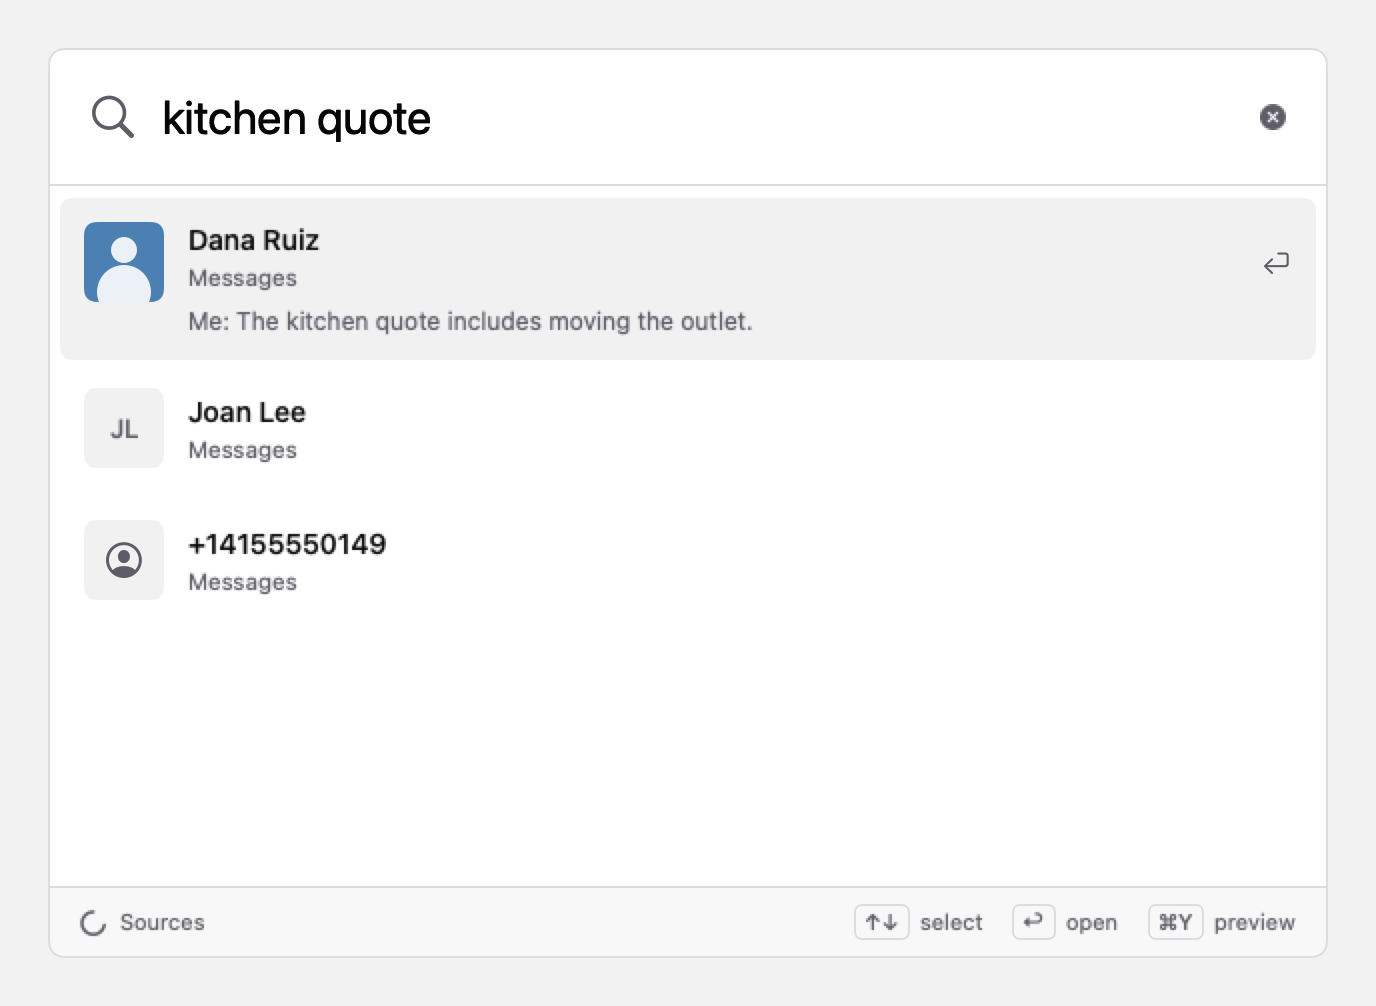
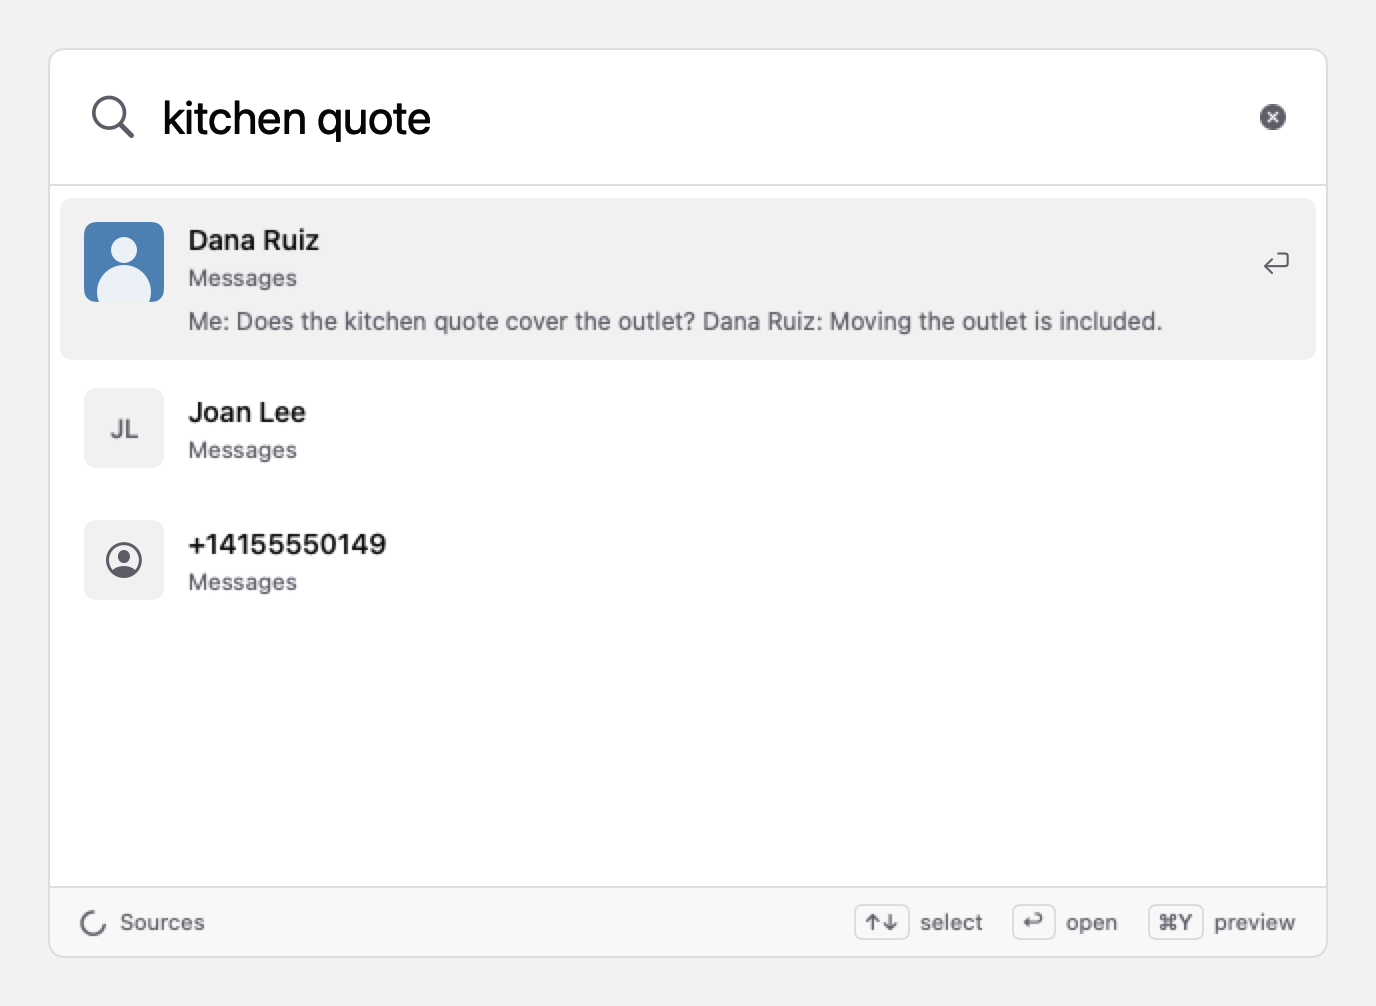
Show contact names in Messages search snippets

Changed region(s): [[0.1562, 0.3082, 0.8438, 0.339]]

diff --git a/mac/Packages/AppearsKit/Sources/AppearsContext/MessageContacts.swift b/mac/Packages/AppearsKit/Sources/AppearsContext/MessageContacts.swift
@@ -112,6 +112,78 @@ public struct MessageContacts: Sendable {
                             initials: initials, photo: person?.photo, isGroup: group)
     }
 
+    /// Resolve only the speaker at the start of each indexed conversation line.
+    /// Numbers and email addresses in the message itself stay verbatim.
+    public func displayText(_ text: String, for item: Item) -> String {
+        guard item.source == .messages, item.kind == .message else { return text }
+        var result = text
+        for replacement in speakers(in: text).reversed() {
+            result.replaceSubrange(replacement.range, with: replacement.name)
+        }
+        return result
+    }
+
+    /// Search excerpts have their newlines collapsed and may start midway through a
+    /// message. Locate the excerpt in its source so an inline number is never a sender.
+    public func displaySnippet(for suggestion: Suggestion) -> String {
+        let snippet = suggestion.snippet
+        guard suggestion.item.source == .messages, suggestion.item.kind == .message else { return snippet }
+        let source = suggestion.unit.text
+        guard !source.isEmpty else { return displayText(snippet, for: suggestion.item) }
+        func flat(_ text: String) -> String {
+            text.replacingOccurrences(of: "\\s+", with: " ", options: .regularExpression)
+        }
+        let flattened = flat(source)
+        var excerpt = snippet[...]
+        if excerpt.hasPrefix("…") { excerpt = excerpt.dropFirst() }
+        if excerpt.hasSuffix("…") { excerpt = excerpt.dropLast() }
+        guard !excerpt.isEmpty, let location = flattened.range(of: String(excerpt)) else { return snippet }
+        let offset = flattened.distance(from: flattened.startIndex, to: location.lowerBound)
+        let leading = snippet.hasPrefix("…") ? 1 : 0
+        var result = snippet
+        for replacement in speakers(in: source).reversed() {
+            let start = flat(String(source[..<replacement.range.lowerBound])).count - offset
+            let length = flat(String(source[replacement.range])).count
+            guard start >= 0, start + length <= excerpt.count else { continue }
+            let lower = snippet.index(snippet.startIndex, offsetBy: leading + start)
+            let upper = snippet.index(lower, offsetBy: length)
+            result.replaceSubrange(lower..<upper, with: replacement.name)
+        }
+        return result
+    }
+
+    /// Keep answer emphasis and concealed clipboard handling when a quoted line
+    /// includes a sender, even when its address spans several styled segments.
+    public func displayLine(_ line: MatchedLine, for item: Item) -> MatchedLine {
+        guard item.source == .messages, item.kind == .message else { return line }
+        let text = line.text
+        var result = line
+        for replacement in speakers(in: text).reversed() {
+            let start = text.distance(from: text.startIndex, to: replacement.range.lowerBound)
+            let end = text.distance(from: text.startIndex, to: replacement.range.upperBound)
+            var offset = 0
+            result.segments = result.segments.flatMap { segment -> [MatchedLine.Segment] in
+                let count = segment.text.count
+                defer { offset += count }
+                guard offset < end, offset + count > start else { return [segment] }
+                var parts: [MatchedLine.Segment] = []
+                if start > offset { parts.append(.init(String(segment.text.prefix(start - offset)), emphasized: segment.emphasized)) }
+                if start >= offset { parts.append(.init(replacement.name, emphasized: segment.emphasized)) }
+                if end < offset + count { parts.append(.init(String(segment.text.suffix(offset + count - end)), emphasized: segment.emphasized)) }
+                return parts
+            }
+        }
+        return result
+    }
+
+    private func speakers(in text: String) -> [(range: Range<String.Index>, name: String)] {
+        text.split(separator: "\n", omittingEmptySubsequences: false).compactMap { line in
+            guard let colon = line.firstIndex(of: ":"),
+                  let person = person(for: String(line[..<colon])) else { return nil }
+            return (line.startIndex..<colon, person.name)
+        }
+    }
+
     private func person(for address: String) -> Person? {
         let key = Self.key(address)
         return ambiguous.contains(key) ? nil : people[key]

diff --git a/mac/Packages/AppearsKit/Tests/AppearsContextTests/MessageContactsTests.swift b/mac/Packages/AppearsKit/Tests/AppearsContextTests/MessageContactsTests.swift
@@ -79,4 +79,61 @@ struct MessageContactsTests {
         file.source = .file
         #expect(directory.presentation(for: file) == nil)
     }
+
+    private func suggestion(text: String, snippet: String? = nil, item: Item? = nil) -> Suggestion {
+        Suggestion(item: item ?? self.item(), unit: Unit(kind: .text, locator: .whole, text: text),
+                   reason: "Related", snippet: snippet ?? text.replacingOccurrences(of: "\n", with: " "),
+                   score: 1, confidence: 0.8,
+                   features: Features(cosine: 0.8, zScore: 5, agreement: true, entityHit: true,
+                                      daysSinceTouched: 1, fused: 1, forgotten: 1, novelty: 1))
+    }
+
+    @Test func resolvesSpeakersInFlattenedSearchExcerptsAndMultilinePreviews() {
+        let directory = MessageContacts(people: [dana, joan])
+        let text = "Me: Where is the ladder?\n+14155550142: By the garage.\n+14155550143: Beside the shelves."
+        let original = suggestion(text: text)
+        #expect(directory.displaySnippet(for: original) == "Me: Where is the ladder? Dana Ruiz: By the garage. Joan Lee: Beside the shelves.")
+        #expect(directory.displayText(text, for: original.item) == "Me: Where is the ladder?\nDana Ruiz: By the garage.\nJoan Lee: Beside the shelves.")
+        #expect(original.unit.text == text)
+        #expect(original.snippet.contains("+14155550142"))
+    }
+
+    @Test func preservesBodyNumbersAndHandlesClippedUnicodeExcerpts() {
+        let directory = MessageContacts(people: [dana, joan])
+        let text = "Me: 🪜 Call +14155550142: ask about the ladder.\n+14155550142: It’s by the garage.\n+14155550143: Thanks!"
+        let clipped = suggestion(text: text, snippet: "…the ladder. +14155550142: It’s by the garage. +14155550143: Thanks…")
+        #expect(directory.displaySnippet(for: clipped) == "…the ladder. Dana Ruiz: It’s by the garage. Joan Lee: Thanks…")
+        let full = directory.displaySnippet(for: suggestion(text: text))
+        #expect(full.hasPrefix("Me: 🪜 Call +14155550142: ask about the ladder."))
+        #expect(directory.displayText(text, for: item()).hasPrefix("Me: 🪜 Call +14155550142: ask about the ladder."))
+        let partialSpeaker = suggestion(text: text, snippet: "…5550142: It’s by the garage.…")
+        #expect(directory.displaySnippet(for: partialSpeaker) == partialSpeaker.snippet)
+    }
+
+    @Test func leavesUnknownAmbiguousAndNonMessageSpeakersAlone() {
+        let collision = MessageContacts.Person(id: "other", name: "Different Person", addresses: dana.addresses)
+        let directory = MessageContacts(people: [dana, collision])
+        let text = "Me: Where?\n+14155550142: By the garage.\n+14155550149: Thanks."
+        let original = suggestion(text: text)
+        #expect(directory.displaySnippet(for: original) == original.snippet)
+        #expect(MessageContacts().displayText(text, for: item()) == text)
+        var note = item()
+        note.source = .notes
+        #expect(MessageContacts(people: [dana]).displaySnippet(for: suggestion(text: text, item: note)) == original.snippet)
+        #expect(MessageContacts(people: [dana]).displayText(text, for: note) == text)
+        let email = suggestion(text: "Me: Where?\nDANA@EXAMPLE.TEST: By the garage.")
+        #expect(MessageContacts(people: [dana]).displaySnippet(for: email) == "Me: Where? Dana Ruiz: By the garage.")
+    }
+
+    @Test func preservesAnswerEmphasisAndClipboardPrivacyAcrossSplitSenderSegments() {
+        let directory = MessageContacts(people: [dana, joan])
+        let line = MatchedLine(segments: [.init("+1415"), .init("5550142", emphasized: true),
+                                         .init(": Gate code: "), .init("1234", emphasized: true),
+                                         .init("\n+14155550143: Thanks")], concealed: true)
+        let displayed = directory.displayLine(line, for: item())
+        #expect(displayed.text == "Dana Ruiz: Gate code: 1234\nJoan Lee: Thanks")
+        #expect(displayed.segments.contains(.init("1234", emphasized: true)))
+        #expect(displayed.concealed)
+        #expect(line.text.hasPrefix("+14155550142:"))
+    }
 }

diff --git a/mac/App/Sources/SearchView.swift b/mac/App/Sources/SearchView.swift
@@ -60,6 +60,7 @@ struct SearchView: View {
             ReadinessView(model: model.app, openSources: openSettings).padding(24)
         } else if let preview = model.sourcePreview {
             SourcePreviewView(suggestion: preview, title: model.app.contacts.presentation(for: preview.item)?.title,
+                              contacts: model.app.contacts,
                               back: { model.sourcePreview = nil }) {
                 if model.open(preview) { finish() }
             }
@@ -213,9 +214,9 @@ private struct SearchResultRow: View {
                     Text(location).font(.system(size: 11.5)).foregroundStyle(Theme.mutedForeground)
                         .lineLimit(1).truncationMode(.middle)
                     if selected, let line = suggestion.line {
-                        QuotedLine(line: line).padding(.top, 4)
+                        QuotedLine(line: contacts.displayLine(line, for: suggestion.item)).padding(.top, 4)
                     } else if selected, suggestion.item.kind != .image, !suggestion.snippet.isEmpty {
-                        Text(suggestion.snippet).font(.system(size: 12)).foregroundStyle(Theme.mutedForeground)
+                        Text(contacts.displaySnippet(for: suggestion)).font(.system(size: 12)).foregroundStyle(Theme.mutedForeground)
                             .lineLimit(2).padding(.top, 3)
                     }
                 }
@@ -235,7 +236,7 @@ private struct SearchResultRow: View {
             Button("Open", action: open)
             if suggestion.item.fileURL != nil { Button("Show in Finder", action: reveal) }
             else { Button("Preview passage", action: preview) }
-            if let line = suggestion.line { Button("Copy Line") { line.copyToPasteboard() } }
+            if let line = suggestion.line { Button("Copy Line") { contacts.displayLine(line, for: suggestion.item).copyToPasteboard() } }
         }
         .task(id: suggestion.id) {
             if suggestion.item.source == .messages { await contacts.refresh() }

diff --git a/mac/App/Sources/SourcePreviewView.swift b/mac/App/Sources/SourcePreviewView.swift
@@ -7,10 +7,14 @@ import SwiftUI
 struct SourcePreviewView: View {
     let suggestion: Suggestion
     var title: String? = nil
+    var contacts: ContactDirectory? = nil
     let back: () -> Void
     let open: () -> Void
 
-    private var passage: String { suggestion.unit.text.isEmpty ? suggestion.snippet : suggestion.unit.text }
+    private var passage: String {
+        if suggestion.unit.text.isEmpty { return contacts?.displaySnippet(for: suggestion) ?? suggestion.snippet }
+        return contacts?.displayText(suggestion.unit.text, for: suggestion.item) ?? suggestion.unit.text
+    }
     private var source: String { suggestion.item.source == .messages ? "Messages" : "Apple Notes" }
 
     var body: some View {
@@ -29,7 +33,7 @@ struct SourcePreviewView: View {
                 .font(.system(size: 11)).foregroundStyle(Theme.mutedForeground).padding(.top, 4)
             ScrollView {
                 VStack(alignment: .leading, spacing: 12) {
-                    if let line = suggestion.line { QuotedLine(line: line) }
+                    if let line = suggestion.line { QuotedLine(line: contacts?.displayLine(line, for: suggestion.item) ?? line) }
                     Text(passage.isEmpty ? "No readable passage is available. Open the original to view it." : passage)
                         .font(.system(size: 13)).lineSpacing(4).foregroundStyle(Theme.foreground)
                         .textSelection(.enabled).frame(maxWidth: .infinity, alignment: .leading)

diff --git a/mac/Tools/Snapshots/main.swift b/mac/Tools/Snapshots/main.swift
@@ -211,8 +211,9 @@ let weaker = [
         let item = Item(id: Int64(101 + index), source: .messages, path: "messages:\(index)", kind: .message,
                         title: address, size: 30, created: Date(), modified: Date(), lastUsed: nil,
                         message: .init(rowID: Int64(index), guid: "fixture-\(index)", chatID: Int64(index), conversationURL: nil))
-        return Suggestion(item: item, unit: Unit(kind: .text, locator: .whole, text: "Me: The kitchen quote includes moving the outlet."),
-                          reason: "Related · from October 2026", snippet: "Me: The kitchen quote includes moving the outlet.",
+        let text = "Me: Does the kitchen quote cover the outlet?\n\(address): Moving the outlet is included."
+        return Suggestion(item: item, unit: Unit(kind: .text, locator: .whole, text: text),
+                          reason: "Related · from October 2026", snippet: text.replacingOccurrences(of: "\n", with: " "),
                           score: 1, confidence: 0.8, features: features)
     }
     var contactStatus = EngineStatus()

diff --git a/mac/App/Sources/ContactDirectory.swift b/mac/App/Sources/ContactDirectory.swift
@@ -98,6 +98,9 @@ final class ContactDirectory {
     }
 
     func presentation(for item: Item) -> MessageContacts.Presentation? { snapshot.presentation(for: item) }
+    func displayText(_ text: String, for item: Item) -> String { snapshot.displayText(text, for: item) }
+    func displaySnippet(for suggestion: Suggestion) -> String { snapshot.displaySnippet(for: suggestion) }
+    func displayLine(_ line: MatchedLine, for item: Item) -> MatchedLine { snapshot.displayLine(line, for: item) }
 }
 
 /// A message's contact photo, or initials when the contact has no photo. Attached photos

diff --git a/mac/App/Sources/PanelView.swift b/mac/App/Sources/PanelView.swift
@@ -116,6 +116,7 @@ struct PanelView: View {
             Message(title: "Couldn't look", text: error, action: nil)
         } else if let preview = model.sourcePreview {
             SourcePreviewView(suggestion: preview, title: model.contacts.presentation(for: preview.item)?.title,
+                              contacts: model.contacts,
                               back: { model.sourcePreview = nil }) {
                 model.act(.opened, on: preview); close()
             }
